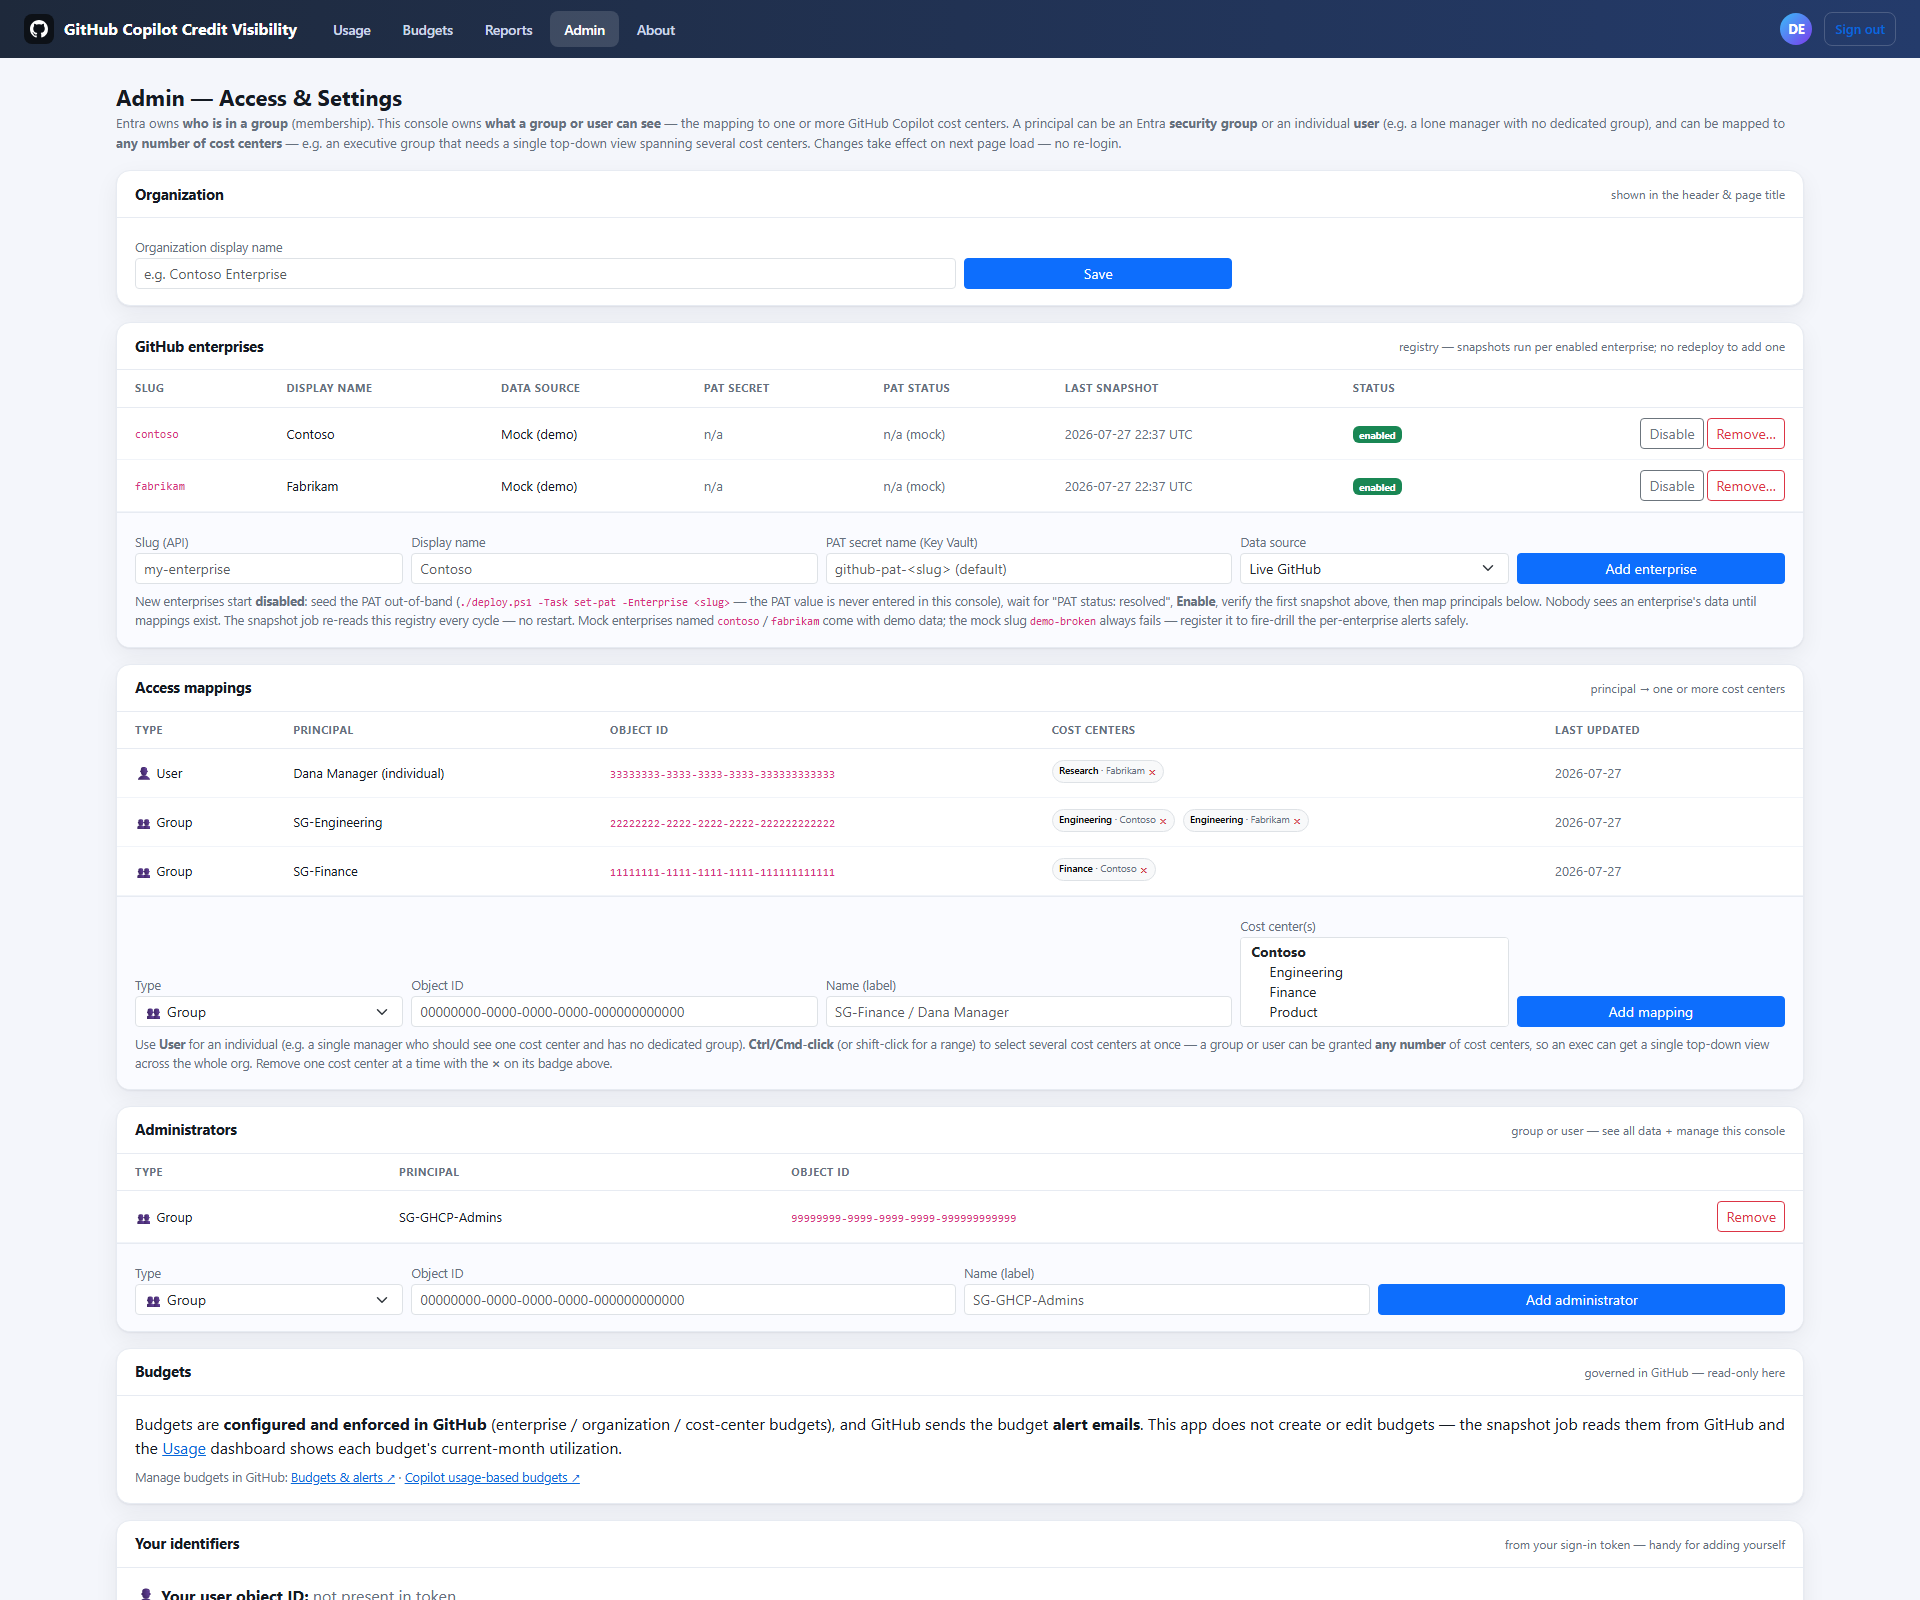
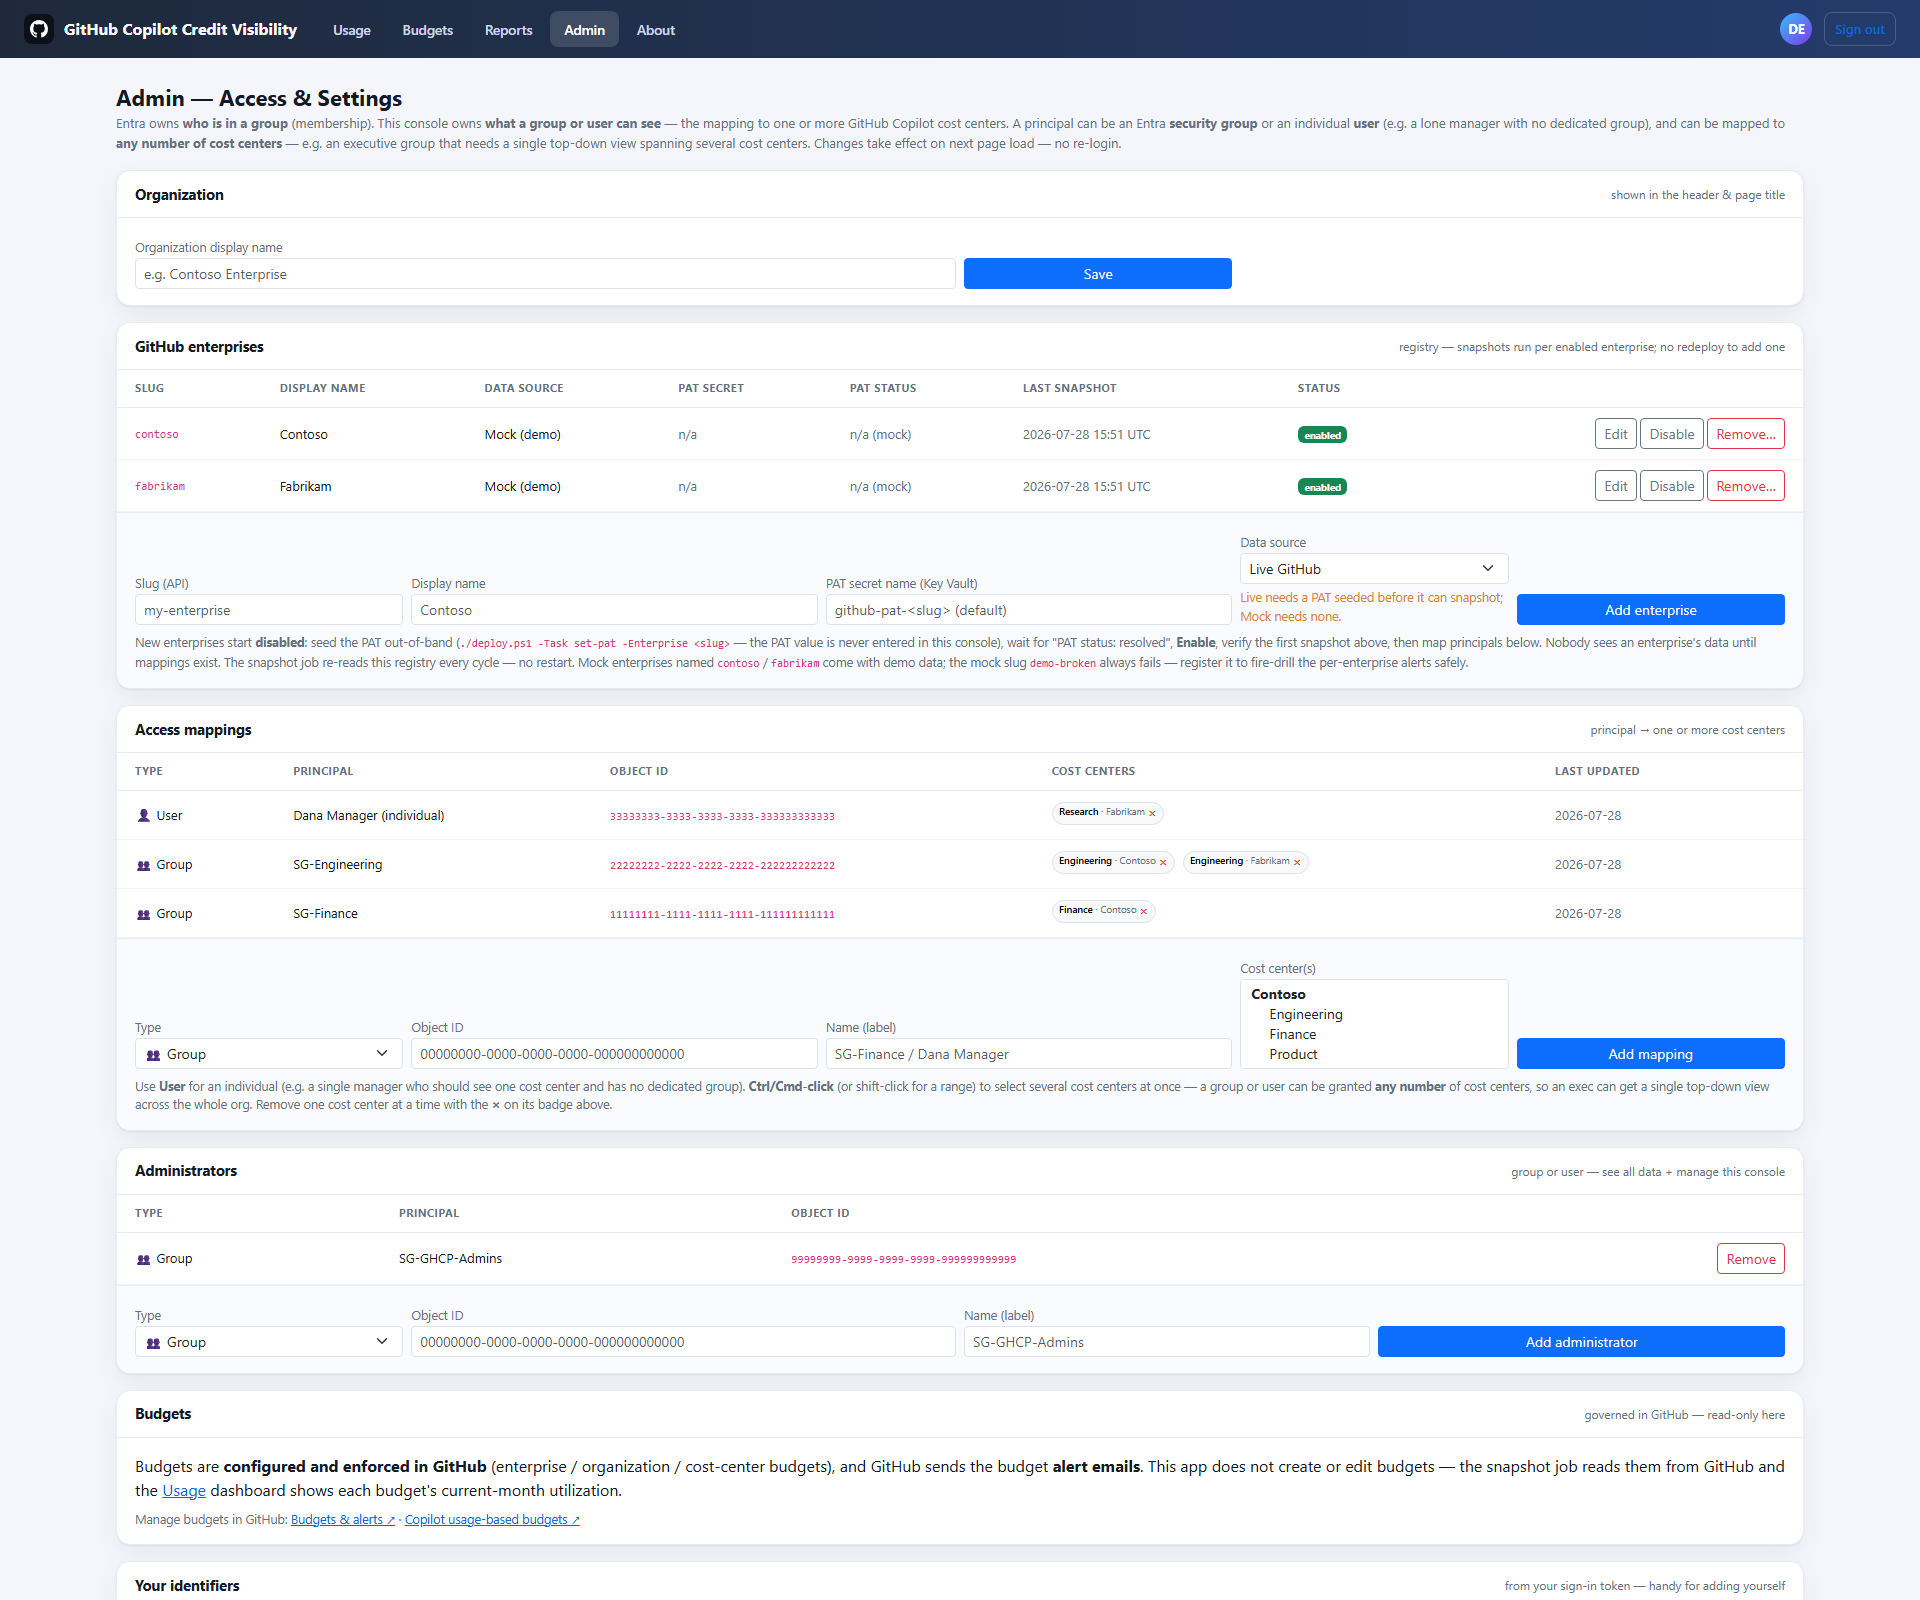
Admin registry UX: per-row Edit + Live-needs-a-PAT hint
Both gaps surfaced during the demo-broken fire drill:
- The add form's Data source defaulted to "Live GitHub" with nothing
  saying a Live enterprise needs its PAT seeded before it can ever
  snapshot - a drill enterprise added as Live failed on PAT resolution
  instead of the intended simulated outage. A hint under the dropdown
  now says so.
- Registry rows had no Edit affordance (the update handler existed,
  unwired), so fixing a display name, PAT secret name, or wrong data
  source meant remove-with-purge and re-add. Each row now has Edit:
  ?EditEnterprise=<id> swaps the add form for a pre-filled edit form
  (Save/Cancel) with a note on slug/data-source change semantics.
admin-mappings.png recaptured.

diff --git a/GhcpCreditVisibility/Pages/Admin/Mappings.cshtml.cs b/GhcpCreditVisibility/Pages/Admin/Mappings.cshtml.cs
@@ -61,6 +61,11 @@ namespace GhcpCreditVisibility.Pages.Admin
 
         public IReadOnlyList<EnterpriseRow> Enterprises { get; private set; } = Array.Empty<EnterpriseRow>();
         public bool MultiEnterprise => Enterprises.Count > 1;
+        /// <summary>?EditEnterprise=&lt;id&gt; swaps the add-enterprise form for a pre-filled edit form —
+        /// fixing a display name, PAT secret name, or a wrong data source must not require
+        /// remove-with-purge and re-add.</summary>
+        [BindProperty(SupportsGet = true)] public long? EditEnterprise { get; set; }
+        public Enterprise? EditingEnterprise { get; private set; }
         /// <summary>Id → display label for enterprise badges on mapping rows.</summary>
         public IReadOnlyDictionary<long, string> EnterpriseNames { get; private set; } = new Dictionary<long, string>();
 
@@ -113,6 +118,9 @@ namespace GhcpCreditVisibility.Pages.Admin
                 rows.Add(new EnterpriseRow(e, run?.Status, run?.CompletedUtc ?? run?.StartedUtc, run?.RowsWritten, patResolved));
             }
             Enterprises = rows;
+            EditingEnterprise = EditEnterprise is long editId
+                ? enterprises.FirstOrDefault(e => e.Id == editId)
+                : null;
 
             RetentionMonths = _config.GetValue("Retention:Months", 12);
             UseMock = _config.GetValue("GitHub:UseMock", true);
